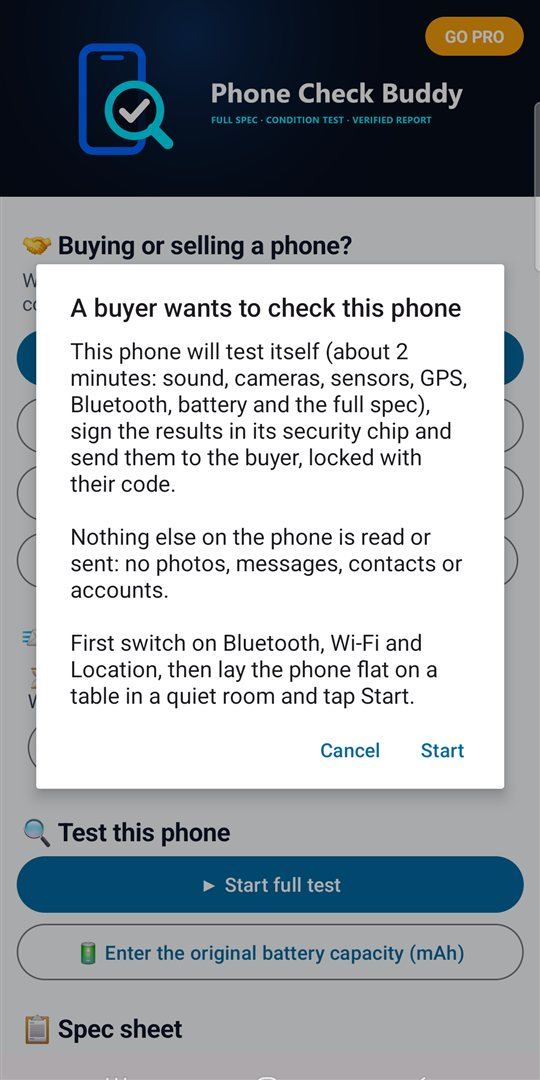
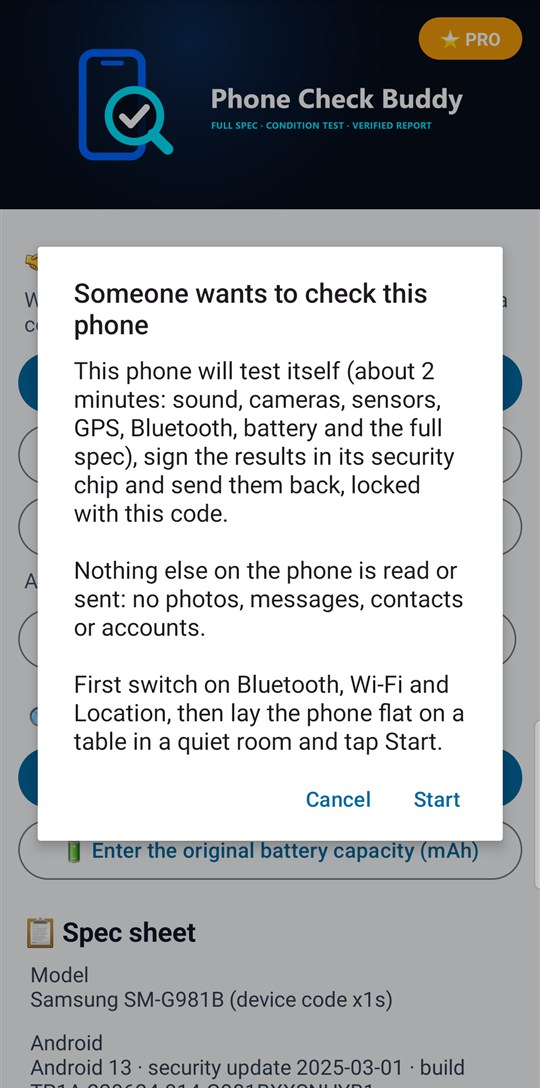
Add files via upload

diff --git a/phone-check-buddy/index.html b/phone-check-buddy/index.html
@@ -42,27 +42,27 @@
         <ul>
             <li>Spec sheet: the phone's model, Android version, processor, memory (RAM), storage, screen, cameras, connections and SIM, read from the phone itself.</li>
             <li>Condition test: speaker, call earpiece, microphones, vibration, cameras, sensors, battery, GPS, Bluetooth and more, measured by the phone.</li>
-            <li>Verified report: the results are signed inside the phone's security chip and checked against Google's certificates, so the buyer can see the report came from that phone and hasn't been changed.</li>
+            <li>Verified report: the results are signed inside the phone's security chip and checked against Google's certificates, so anyone with the code can see the report came from that phone and hasn't been changed.</li>
         </ul>
 
-        <h3>🛒 Checking a phone you want to buy</h3>
-        <p>1. Tap 🛒 Check a phone I want to buy. You get a check code such as 7K4M-29QX-D3HZ.</p>
-        <p>2. Tap 📤 Send to seller and send it by text, WhatsApp, email or any marketplace message.</p>
-        <p>3. The seller installs Phone Check Buddy (free), taps 🔑 Enter a code and types your code. Their phone tests itself in about 2 minutes and sends the report.</p>
+        <h3>🛒 Checking a phone</h3>
+        <p>1. Tap 🛒 Check a phone. You get a check code such as 7K4M-29QX-D3HZ.</p>
+        <p>2. Tap 📤 Send to share it by text, WhatsApp, email or any marketplace message.</p>
+        <p>3. The person with the phone installs Phone Check Buddy (free), taps 🔑 Enter a code and types your code. Their phone tests itself in about 2 minutes and sends the report.</p>
         <p>4. The report appears under 📨 My check codes on your phone. Tap 📋 Open report.</p>
-        <p>Reports arrive when you open the app, or tap 🔄 Check now.</p>
+        <p>Reports arrive when you open the app, or tap 🔄 Check for report.</p>
 
-        <h3>🏷 Proving your own phone to a buyer</h3>
-        <p>1. Tap 🏷 Prove my phone to a buyer.</p>
+        <h3>🏷 Proving your own phone</h3>
+        <p>1. Tap 🏷 Prove my phone.</p>
         <p>2. Switch on Bluetooth, Wi-Fi and Location, lay the phone flat on a table in a quiet room and tap Start. The test runs by itself.</p>
-        <p>3. You get a code. Tap 📤 Send to buyer, or put it in your listing.</p>
-        <p>4. The buyer types the code into Phone Check Buddy (free) and sees the verified report.</p>
+        <p>3. You get a code. Tap 📤 Send, or put it in your listing.</p>
+        <p>4. Whoever has the code types it into Phone Check Buddy (free) and sees the verified report.</p>
 
         <h3>🔑 Entering a code</h3>
         <p>Typing in a code you were sent is always free.</p>
         <ul>
-            <li>If a buyer sent you the code, your phone runs the automatic test and sends them the report.</li>
-            <li>If a seller sent you the code, you see their phone's verified report.</li>
+            <li>If the code was made with 🛒 Check a phone, your phone runs the automatic test and sends the report back.</li>
+            <li>If the code was made with 🏷 Prove my phone, you see that phone's verified report.</li>
         </ul>
         <p>Codes have 12 letters and numbers. The letters O, I and L and the numbers 0 and 1 are never used, and a mistyped code is caught straight away.</p>
 
@@ -77,6 +77,7 @@
             <li>Bluetooth: listens for nearby devices for up to 10 seconds.</li>
         </ul>
         <p>If Android asks for a permission (microphone, camera, location, nearby devices), tap Allow, or that step is shown as not tested.</p>
+        <p>The hands-on tests (flashlight, proximity sensor, touch screen, screen colours, buttons and charging) need a person, so a report made by answering or proving with a code lists them as not tested.</p>
 
         <h3>Reading a report</h3>
         <p>✅ passed · ❌ failed · ℹ information · ⏭ not tested.</p>
@@ -96,12 +97,13 @@
         <p>🔋 Original battery capacity: Android doesn't tell apps the battery's original size. Enter it from the box or the maker's specification (for example 4000 mAh) and the battery health is estimated from it.</p>
 
         <h3>Paying for check codes</h3>
-        <p>Whoever makes a check code pays for it. Typing in a code you were sent is free.</p>
+        <p>Whoever makes a check code pays for it. Typing in a code you were sent is always free.</p>
         <ul>
-            <li>One check code: a single payment through Google Play.</li>
-            <li>Pro: one payment for unlimited check codes, for people who buy and sell phones often. No subscription.</li>
+            <li>Buy 1 credit (one phone test): makes one check code. A single payment through Google Play.</li>
+            <li>Buy Pro (unlimited credits): one payment for unlimited check codes, for people who buy and sell phones often. No subscription.</li>
         </ul>
-        <p>A paid code is only used up once it has been made successfully. Codes you've paid for but not used yet are kept on this phone. Pro can be restored on another phone with the same Google account: tap ⭐ Pro &amp; purchases, then Restore.</p>
+        <p>A credit is only used up once a check code has been made with it. You can have one unused credit at a time. Pro, or a credit you paid for but haven't used, comes back by itself when you open the app on this or another phone with the same Google account.</p>
+        <p>📜 History lists everything done on this phone, newest first: credits and Pro bought (with your available credits, and the codes made with each listed underneath: tap a code to send it again), reports sent and received, and codes that expired. Tap 📋 Open report to see a report again. 🗑 deletes a line from History; any code in it still works. History is kept on this phone only. 📨 My check codes on the main screen shows your newest code that hasn't expired; earlier ones are in 📜 History.</p>
 
         <h3>Privacy</h3>
         <ul>
@@ -121,8 +123,9 @@
         </ul>
 
         <h3>About</h3>
-        <p>Phone Check Buddy v1.0 (Build 1)</p>
+        <p>Phone Check Buddy v1.1 (Build 2)</p>
         <p>Publisher: AppStack Studio</p>
+        <p>Support and privacy: daverimmeruk.github.io/appstack-studio/phone-check-buddy/</p>
 
         <h3>⚡ WHY PHONE CHECK BUDDY</h3>
         <p>Buying a used phone means trusting a stranger's description. Phone Check Buddy lets the phone describe itself: its full spec and a measured condition test, signed in its own security chip so the report can't be faked or edited.</p>
@@ -134,14 +137,14 @@
                 <th>Phone Check Buddy</th>
             </tr>
             <tr>
-                <td>Can the buyer trust the results?</td>
+                <td>Can the results be trusted?</td>
                 <td>Screenshots, easy to edit</td>
                 <td><strong>Signed in the phone's security chip and checked against Google's certificates: a changed report is refused</strong></td>
             </tr>
             <tr>
                 <td>Checking a phone from a distance</td>
                 <td>Usually not offered</td>
-                <td><strong>Send a check code: the seller's phone tests itself and sends you the report</strong></td>
+                <td><strong>Send a check code: the other phone tests itself and sends you the report</strong></td>
             </tr>
             <tr>
                 <td>Modified or rooted phones</td>
@@ -183,15 +186,15 @@
     <div class="screenshot-grid">
         <div class="screenshot-card">
             <img src="phone-check-buddy-main.jpg" alt="Main screen">
-            <p><strong>1. Buying or selling</strong><br>Check a phone you want to buy, prove your own, or enter a code.</p>
+            <p><strong>1. Main screen</strong><br>Check a phone, prove your own, or enter a code.</p>
         </div>
         <div class="screenshot-card">
             <img src="phone-check-buddy-code.jpg" alt="Your check code">
-            <p><strong>2. Your check code</strong><br>Send it to the seller: their phone tests itself and sends you the report.</p>
+            <p><strong>2. Your check code</strong><br>Send it to the person with the phone: their phone tests itself and sends you the report.</p>
         </div>
         <div class="screenshot-card">
-            <img src="phone-check-buddy-seller.jpg" alt="A buyer wants to check this phone">
-            <p><strong>3. The seller's side</strong><br>Type the code, tap Start: the test runs by itself.</p>
+            <img src="phone-check-buddy-seller.jpg" alt="Someone wants to check this phone">
+            <p><strong>3. Answering a code</strong><br>Type the code, tap Start: the test runs by itself.</p>
         </div>
         <div class="screenshot-card">
             <img src="phone-check-buddy-report.jpg" alt="Verified report">
@@ -199,14 +202,14 @@
         </div>
         <div class="screenshot-card">
             <img src="phone-check-buddy-my-codes.jpg" alt="My check codes">
-            <p><strong>5. My check codes</strong><br>Reports arrive here when the seller has answered.</p>
+            <p><strong>5. My check codes</strong><br>Reports arrive here when the other phone has answered.</p>
         </div>
         <div class="screenshot-card">
             <img src="phone-check-buddy-spec.jpg" alt="Spec sheet">
             <p><strong>6. Spec sheet</strong><br>The phone's exact spec, read from the phone itself.</p>
         </div>
     </div>
-    <p style="font-size: 13px; color: #94A3B8;">Screenshots taken on a Samsung Galaxy S22 Ultra.</p>
+    <p style="font-size: 13px; color: #94A3B8;">Screenshots taken on a Samsung Galaxy S20.</p>
 
     <div class="footer">
         &copy; 2026 AppStack Studio. All rights reserved. | Support: <a href="mailto:appstack1966@gmail.com">appstack1966@gmail.com</a>

diff --git a/phone-check-buddy/privacy.html b/phone-check-buddy/privacy.html
@@ -140,12 +140,12 @@
             <h2>Phone Check Buddy — Privacy Policy</h2>
             <p class="meta">
                 <strong>Package Name:</strong> <code>com.appstackstudio.phonecheckbuddy</code> |
-                <strong>Effective Date:</strong> 14 November 2026 |
+                <strong>Effective Date:</strong> 15 November 2026 |
                 <strong>Developer:</strong> AppStack Studio
             </p>
 
             <h3>1. Overview</h3>
-            <p><strong>Phone Check Buddy</strong> reads a phone's spec, tests its parts and produces a report signed by the phone's own security chip, so buyers and sellers of used phones can trust it. The app needs no account, and it has no ads and no analytics. <strong>A report only leaves the phone when you make or answer a check code</strong>, and it is locked with that code before it is sent, so we cannot read it.</p>
+            <p><strong>Phone Check Buddy</strong> reads a phone's spec, tests its parts and produces a report signed by the phone's own security chip, so anyone checking a used phone can trust it. The app needs no account, and it has no ads and no analytics. <strong>A report only leaves the phone when you make or answer a check code</strong>, and it is locked with that code before it is sent, so we cannot read it.</p>
 
             <h3>2. What the test reads</h3>
             <ul>
@@ -160,9 +160,9 @@
             <ul>
                 <li>When you <strong>make or answer a check code</strong>, the phone sends a report to our check service: the spec sheet and test results described above, plus security certificates from the phone's security chip that prove the report came from that phone and hasn't been changed.</li>
                 <li>Before it leaves the phone, the report is <strong>locked (AES-256 encryption) with a key made from the check code</strong>. The check service only ever holds the locked report, stored under a fingerprint of the code, so neither we nor our service provider can read it without the code.</li>
-                <li>Only someone with the code can open the report. Pass your code only to the person you are buying from or selling to.</li>
+                <li>Only someone with the code can open the report. Pass your code only to the person who should see or answer the check.</li>
                 <li>A report is <strong>deleted from the check service as soon as the code is used</strong> to open it. A report that is never opened <strong>can't be opened after 7 days</strong> and is then removed by the app's automatic tidy-up.</li>
-                <li>A buyer's code with no report yet holds no information about anyone: only that the code exists and when it expires.</li>
+                <li>A code made with 🛒 Check a phone that has no report yet holds no information about anyone: only that the code exists and when it expires.</li>
                 <li>The check service is Google Cloud Firestore (part of Google Firebase), stored in London (europe-west2). Like any internet service, Google receives the connection's IP address in order to provide it.</li>
             </ul>
 
@@ -170,7 +170,8 @@
             <ul>
                 <li><strong>Your last full test:</strong> the results of ▶ Start full test, and the original battery capacity if you entered it.</li>
                 <li><strong>Your check codes:</strong> the codes you made or answered, and the reports you received with them.</li>
-                <li><strong>Purchases and settings:</strong> how many paid check codes you have left, whether Pro is unlocked, and whether the welcome guide was shown.</li>
+                <li><strong>📜 History:</strong> a list of credits and Pro bought, the codes made with them, reports sent and received, and codes that expired.</li>
+                <li><strong>Purchases and settings:</strong> your available credits, whether Pro is unlocked, and whether the welcome guide was shown.</li>
             </ul>
             <p>Phone Check Buddy's data is not included in Android backups and is not copied to a new phone.</p>
 
@@ -184,13 +185,13 @@
                 <li><strong>Wi-Fi and network state (<code>ACCESS_WIFI_STATE</code>, <code>ACCESS_NETWORK_STATE</code>):</strong> to read the Wi-Fi features and signal strength.</li>
                 <li><strong>Vibration (<code>VIBRATE</code>):</strong> for the vibration test.</li>
                 <li><strong>Biometrics (<code>USE_BIOMETRIC</code>):</strong> only to see whether a fingerprint or face unlock is set up. The app never asks you to scan your fingerprint or face.</li>
-                <li><strong>Google Play Billing:</strong> to handle paid check codes and Pro.</li>
+                <li><strong>Google Play Billing:</strong> to handle credits and Pro.</li>
             </ul>
             <p>If you refuse a permission, that test is shown as not tested and the rest of the test carries on.</p>
 
             <h3>6. Third-Party Services</h3>
             <ul>
-                <li><strong>Google Play Billing:</strong> if you buy a check code (a single purchase) or Pro (a one-time lifetime purchase), the payment is handled by Google Play. We do not receive or store your payment details. The price is shown by Google Play at checkout.</li>
+                <li><strong>Google Play Billing:</strong> if you buy 1 credit (a single purchase) or Pro (a one-time lifetime purchase), the payment is handled by Google Play. We do not receive or store your payment details. The price is shown by Google Play at checkout.</li>
                 <li><strong>Google Firebase (Cloud Firestore):</strong> the check service described in section 3. It only holds locked reports.</li>
                 <li><strong>Google's key attestation service:</strong> when a report is checked, the app downloads Google's public list of withdrawn security keys (android.googleapis.com). Nothing about you or the report is sent.</li>
             </ul>
@@ -201,7 +202,7 @@
 
             <h3>8. Keeping and Deleting Your Data</h3>
             <ul>
-                <li>Uninstalling the app, or Android Settings › Apps › Phone Check Buddy › Storage › Clear storage, deletes everything the app has stored on the phone, including your codes and received reports. Removing a code from 📨 My check codes deletes that code and its report from the phone.</li>
+                <li>Uninstalling the app, or Android Settings › Apps › Phone Check Buddy › Storage › Clear storage, deletes everything the app has stored on the phone, including your codes, received reports and 📜 History. 🗑 in 📜 History deletes that line from History.</li>
                 <li>Reports on the check service are deleted as soon as their code is used, and can't be opened after 7 days.</li>
                 <li>We can't read or identify the locked reports, so we hold nothing about you. If you have a question about your data, email us.</li>
             </ul>

diff --git a/phone-check-buddy/support.html b/phone-check-buddy/support.html
@@ -164,12 +164,12 @@
 
             <div class="faq-item">
                 <h3>Q1: Who pays for a check code?</h3>
-                <p>Whoever makes the code pays for it: one check code at a time, or ⭐ Pro for unlimited codes. Typing in a code you were sent is always free, so the other person only needs to install the free app.</p>
+                <p>Whoever makes the code pays for it: 1 credit makes one check code, or Pro gives unlimited credits. Typing in a code you were sent is always free, so the other person only needs to install the free app.</p>
             </div>
 
             <div class="faq-item">
-                <h3>Q2: The seller answered my code, but I can't see the report.</h3>
-                <p>Reports are collected when you open the app. Open Phone Check Buddy and look under 📨 My check codes, or tap 🔄 Check now. Your phone needs the internet. If the code shows "Expired or already used", ask the seller to answer a new code.</p>
+                <h3>Q2: My code was answered, but I can't see the report.</h3>
+                <p>Reports are collected when you open the app. Open Phone Check Buddy and look under 📨 My check codes, or tap 🔄 Check for report. Your phone needs the internet. Earlier codes and their reports are in 📜 History: tap 📋 Open report there. If 📜 History says the code expired, no report arrived within 7 days: make a new code.</p>
             </div>
 
             <div class="faq-item">
@@ -194,7 +194,7 @@
 
             <div class="faq-item">
                 <h3>Q7: A test says "Not tested".</h3>
-                <p>The step was skipped, a permission wasn't allowed, or the feature was switched off (for example Bluetooth). Switch on Bluetooth, Wi-Fi and Location before the test, and tap Allow when Android asks for the microphone, camera, location or nearby devices.</p>
+                <p>The step was skipped, a permission wasn't allowed, or the feature was switched off (for example Bluetooth). Switch on Bluetooth, Wi-Fi and Location before the test, and tap Allow when Android asks for the microphone, camera, location or nearby devices. A report made by answering or proving with a code always lists the hands-on tests (flashlight, proximity sensor, touch screen, screen colours, buttons and charging) as not tested, because they need a person.</p>
             </div>
 
             <div class="faq-item">
@@ -213,8 +213,8 @@
             </div>
 
             <div class="faq-item">
-                <h3>Q11: How do I buy or restore Pro?</h3>
-                <p>Tap ⭐ Pro &amp; purchases. Pro is one payment for life through Google Play, with no subscription; the price is shown by Google Play at checkout. On a new phone with the same Google account, tap ⭐ Pro &amp; purchases, then Restore. Check codes bought one at a time are kept on the phone they were bought on.</p>
+                <h3>Q11: How do I buy credits or Pro, and get them back?</h3>
+                <p>Tap GO PRO at the top of the app, or make a code and choose Buy 1 credit or Buy Pro. Both are one payment through Google Play, with no subscription; the price is shown by Google Play. Pro, or a credit you paid for but haven't used, comes back by itself when you open the app on this or another phone with the same Google account. There's no Restore button to tap.</p>
             </div>
         </article>
 
